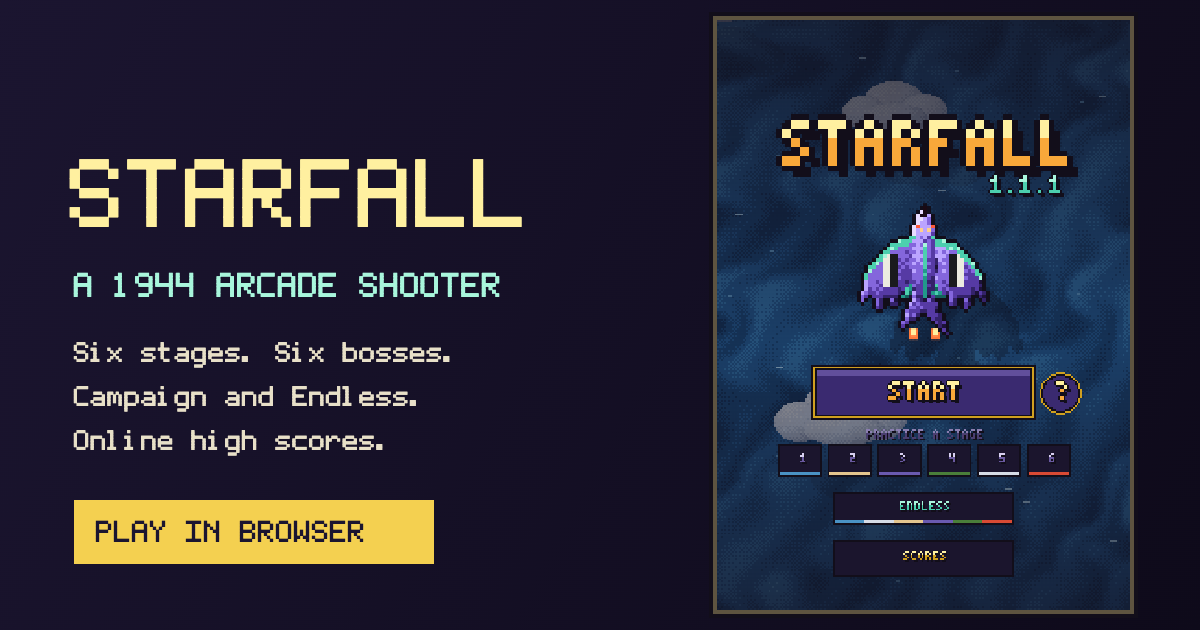
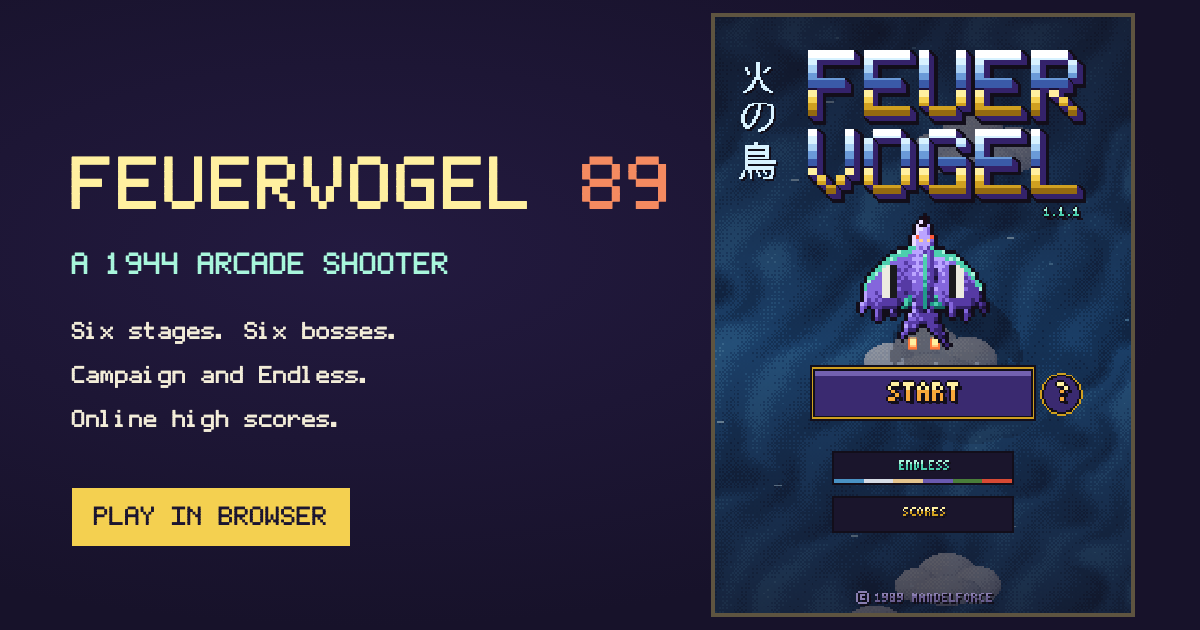
Rename to FEUERVOGEL 89
Tab title, link preview (new image), home-screen name ("Feuervogel"),
manifest, rotate-phone text, tutorial line and README. The repo URL,
saved-progress keys, the Worker and leaderboard data stay as they are.

diff --git a/index.html b/index.html
@@ -3,14 +3,14 @@
 <head>
 <meta charset="utf-8">
 <meta name="viewport" content="width=device-width, initial-scale=1, viewport-fit=cover">
-<title>StarFall</title>
-<meta name="description" content="StarFall, a WW2 arcade shooter. Fly the Starfall across six stages.">
+<title>FEUERVOGEL 89</title>
+<meta name="description" content="FEUERVOGEL 89, a WW2 arcade shooter. Fly the Feuervogel across six stages.">
 <meta name="theme-color" content="#1b1530">
 <meta property="og:type" content="website">
-<meta property="og:title" content="StarFall">
+<meta property="og:title" content="FEUERVOGEL 89">
 <meta property="og:description" content="1944. The Allies fly a stranded alien starship against the Axis. A pixel-art arcade shooter for phone and desktop, with online high scores.">
 <meta property="og:url" content="https://mandelforce.github.io/StarFall/">
-<meta property="og:image" content="https://mandelforce.github.io/StarFall/og-image.png">
+<meta property="og:image" content="https://mandelforce.github.io/StarFall/og-image.png?v=feuervogel">
 <meta property="og:image:width" content="1200">
 <meta property="og:image:height" content="630">
 <meta name="twitter:card" content="summary_large_image">
@@ -20,7 +20,7 @@
 <meta name="apple-mobile-web-app-capable" content="yes">
 <meta name="mobile-web-app-capable" content="yes">
 <meta name="apple-mobile-web-app-status-bar-style" content="black-translucent">
-<meta name="apple-mobile-web-app-title" content="StarFall">
+<meta name="apple-mobile-web-app-title" content="Feuervogel">
 <script>
 // Leaderboard address: paste your Cloudflare Worker address between the quotes, for example 'https://starfall-scores.your-name.workers.dev'
 window.STARFALL_LEADERBOARD = 'https://starfall-scores.c-roth79.workers.dev';
@@ -175,10 +175,10 @@ body[data-results="1"] #bombBtn{display:none !important}
 </style>
 </head>
 <body data-state="title">
-<div id="rotate" aria-live="polite"><div><canvas id="rotShip" width="36" height="38" aria-hidden="true"></canvas><h2>Turn your phone upright</h2><p>StarFall plays in portrait.</p></div></div>
+<div id="rotate" aria-live="polite"><div><canvas id="rotShip" width="36" height="38" aria-hidden="true"></canvas><h2>Turn your phone upright</h2><p>FEUERVOGEL 89 plays in portrait.</p></div></div>
 <div id="app">
   <div id="stage">
-    <canvas id="game" aria-label="StarFall game screen"></canvas>
+    <canvas id="game" aria-label="FEUERVOGEL 89 game screen"></canvas>
     <div id="tutBox" aria-live="polite"><div id="tutStep"></div><div id="tutText"></div><div id="tutBtns"><span id="tutGoLbl">Start the campaign</span><button type="button" data-d="0">Easy</button><button type="button" data-d="1">Normal</button><button type="button" data-d="2">Hard</button></div></div>
     <button class="ibtn" id="menuBtn" type="button" aria-label="Menu" aria-haspopup="dialog"><svg viewBox="0 0 24 24" fill="currentColor"><rect x="3" y="5" width="18" height="2.6"/><rect x="3" y="10.7" width="18" height="2.6"/><rect x="3" y="16.4" width="18" height="2.6"/></svg></button>
     <button class="ibtn hidden" id="pauseBtn" type="button" aria-label="Pause" tabindex="-1"></button>
@@ -3383,7 +3383,7 @@ function startTutorial() {
   closeAllPanels();
   startAt(1); tut = { step: 0, t: 0, moved: 0, mx: 0, my: 0, lx: null, ly: null, ids: [], got: 0, bombs0: 0, done: false };
   runStart = 99; try { localStorage.setItem('starfall-tut', '1'); } catch (e) {}
-  showMsg('TUTORIAL', 'LEARN TO FLY THE STARFALL', 150);
+  showMsg('TUTORIAL', 'LEARN TO FLY THE FEUERVOGEL', 150);
 }
 function closeAllPanels() { for (const id of ['howto', 'settings', 'lbPanel', 'diffAsk', 'resumeAsk']) { const el = document.getElementById(id); if (el) el.classList.remove('open'); } if (typeof panelPaused !== 'undefined' && panelPaused) { panelPaused = false; paused = false; } }
 function tutSpawn(o) { enemies.push(o); tut.ids.push(o); return o; }

diff --git a/CHANGELOG.md b/CHANGELOG.md
@@ -1,6 +1,8 @@
 # Changelog
 
 ## Unreleased
+- The game is now called FEUERVOGEL 89 (formerly StarFall). New title logo: FEUERVOGEL in chrome letters with 火の鳥 down the left side, a passing glint, a rare glitch and a "© 1989 MANDELFORCE" credit. The tab title, home-screen name ("Feuervogel"), link preview and image follow. The web address, saved progress and the leaderboard are unchanged.
+- Simpler start: the title shows START, ENDLESS and SCORES. After START you pick a difficulty; Tutorial and Practice sit underneath, and Practice shows the stage picker (practice runs still don't count for the board). Keys 2 to 6 on the title open practice at that stage.
 - Stage 6: the Black Fortress no longer jumps at the end of its take-off on tall (phone) screens, and the Raven Prototype duel no longer fires ground mortars (planes don't).
 - Stage 3 boss (Night Hammer): its searchlights are now seen from above, as a bright spot on the ground with a faint beam back to the lamp, instead of long cones. Each spot sweeps a slow search pattern over the whole screen, the bottom included; when it comes within reach it creeps toward you, slower than you fly. Caught means spotted (dark red flash, then lock-on and burst). The lamps are tougher (32 health, was 20), so shooting them out takes a moment.
 - Stage 3 boss (Night Hammer): "Star Shells" at 60% and 30% core health. It fires three parachute flares that pop over the battlefield and drift down, each lighting a circle of ground with a faint edge for about 5 seconds. Inside the light you are spotted, as in a searchlight (the light flashes dark red, then the lock-on and burst). Flares can be shot down for 300 points.

diff --git a/README.md b/README.md
@@ -1,12 +1,14 @@
-# StarFall
+# FEUERVOGEL 89
 
 **1944. The Allies fly a stranded alien starship against the Axis.**
 
-StarFall is a pixel-art vertical arcade shooter that runs in any modern browser, on phone or desktop. No download, no account.
+FEUERVOGEL 89 is a pixel-art vertical arcade shooter that runs in any modern browser, on phone or desktop. No download, no account.
 
-**[▶ Play StarFall](https://mandelforce.github.io/StarFall/)**
+**[▶ Play FEUERVOGEL 89](https://mandelforce.github.io/StarFall/)**
 
-![StarFall title screen](og-image.png)
+(Formerly StarFall. The address, saved progress and the leaderboard stayed the same.)
+
+![FEUERVOGEL 89 title screen](og-image.png)
 
 ## The game
 
